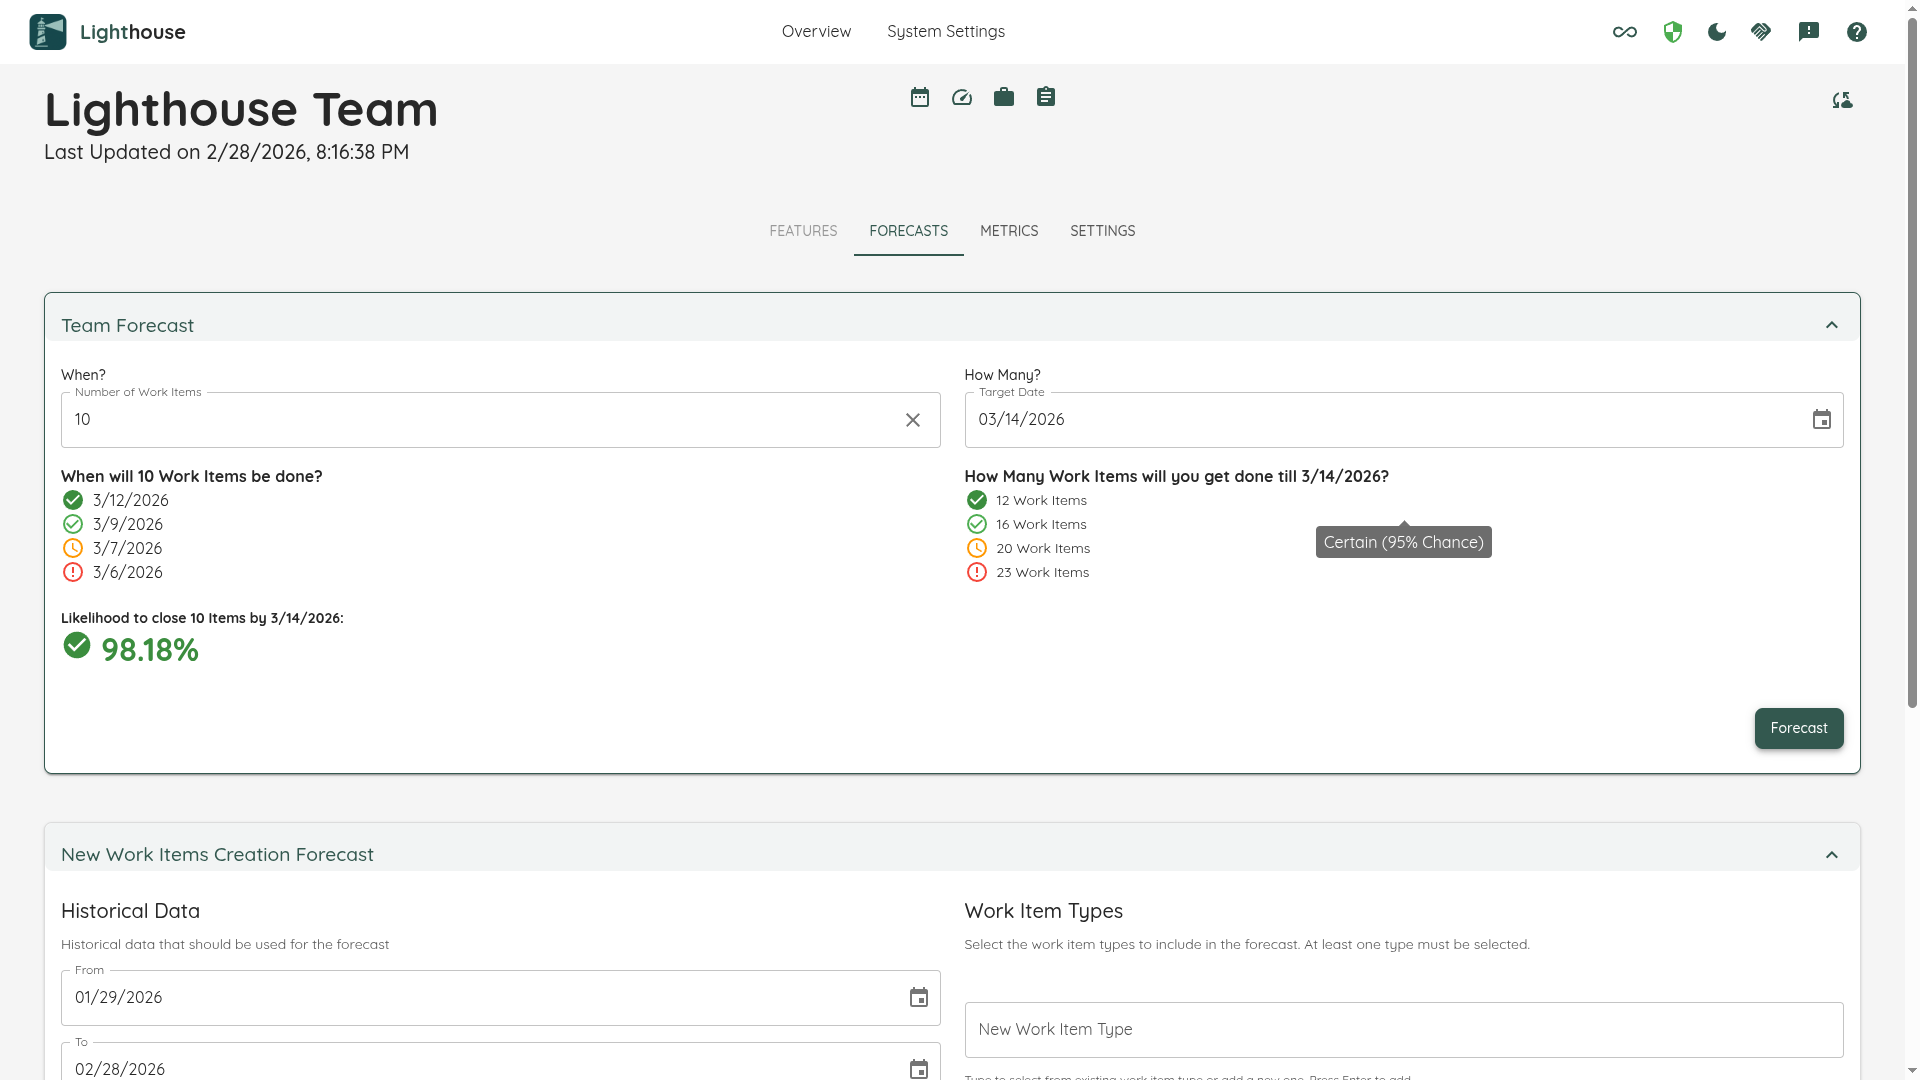
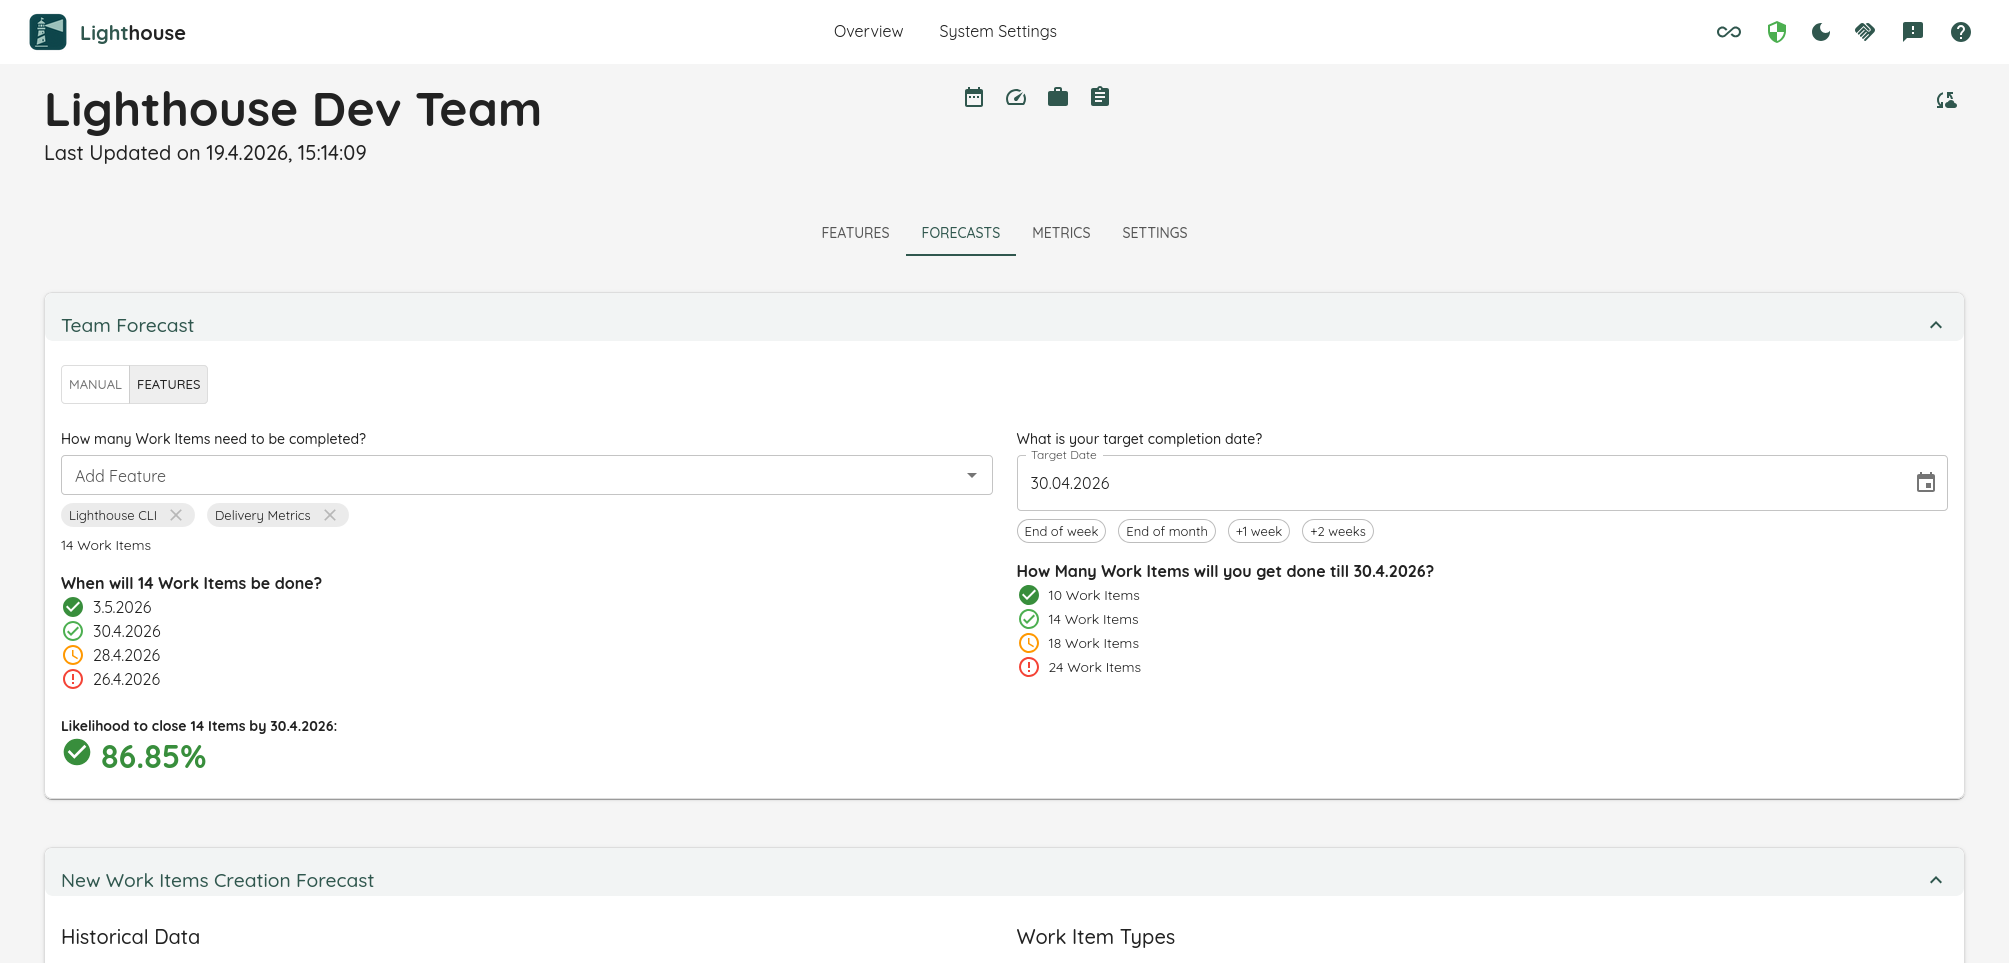
feat: update metrics categories and add arrivals widget to enhance dashboard insights

diff --git a/Lighthouse.Frontend/src/pages/Common/MetricsView/categoryMetadata.ts b/Lighthouse.Frontend/src/pages/Common/MetricsView/categoryMetadata.ts
@@ -73,10 +73,10 @@ const categoryWidgets: Record<CategoryKey, readonly WidgetPlacement[]> = {
 		{ widgetKey: "stacked", size: "large" },
 		{ widgetKey: "wipOverTime", size: "large" },
 		{ widgetKey: "totalWorkItemAgeOverTime", size: "large" },
+		{ widgetKey: "arrivals", size: "large" },
 	],
 	predictability: [
 		{ widgetKey: "predictabilityScoreDetails", size: "large" },
-		{ widgetKey: "arrivals", size: "large" },
 		{ widgetKey: "throughputPbc", size: "large" },
 		{ widgetKey: "arrivalsPbc", size: "large" },
 		{ widgetKey: "wipPbc", size: "large" },

diff --git a/Lighthouse.Frontend/src/pages/Common/MetricsView/categoryMetadata.test.ts b/Lighthouse.Frontend/src/pages/Common/MetricsView/categoryMetadata.test.ts
@@ -208,6 +208,7 @@ describe("categoryMetadata", () => {
 				"stacked",
 				"wipOverTime",
 				"totalWorkItemAgeOverTime",
+				"arrivals",
 			]);
 		});
 
@@ -215,7 +216,6 @@ describe("categoryMetadata", () => {
 			const widgets = getWidgetsForCategory("predictability", "team");
 			expect(widgets.map((w) => w.widgetKey)).toEqual([
 				"predictabilityScoreDetails",
-				"arrivals",
 				"throughputPbc",
 				"arrivalsPbc",
 				"wipPbc",

diff --git a/Lighthouse.EndToEndTests/tests/specs/screenshots/Screenshots.spec.ts b/Lighthouse.EndToEndTests/tests/specs/screenshots/Screenshots.spec.ts
@@ -356,8 +356,8 @@ testWithData(
 
 		const metricCategoriesMap = new Map<MetricsCategories, number>([
 			[MetricsCategories.FlowOverview, 9],
-			[MetricsCategories.FlowMetrics, 6],
-			[MetricsCategories.Predictability, 7],
+			[MetricsCategories.FlowMetrics, 7],
+			[MetricsCategories.Predictability, 6],
 			[MetricsCategories.PortfolioAndFeatures, 2],
 		]);
 

diff --git a/docs/releasenotes/releasenotes.md b/docs/releasenotes/releasenotes.md
@@ -4,24 +4,13 @@ layout: home
 nav_order: 95
 ---
 
-# vNext
+# Lighthouse v26.4.19.8
 
-## Flow Overview Trend Indicators
+## Metrics Improvements
+We've worked on the feedback we got from the UX overhaul, and refined our Metrics further. Following changes were made in this release.
 
-All Flow Overview info widgets now display trend indicators comparing the current date range to a prior period:
-
-- **WIP Overview**, **Features Worked On** (Teams), and **Total Work Item Age** compare snapshot values at the start and end of the selected range.
-- **Predictability Score**, **Cycle Time Percentiles**, **Total Throughput**, **Total Arrivals**, and **Feature Size Percentiles** compare the current period against an equal-length window immediately before the start date.
-- Percentile tooltip rows now use a `previous → **current**` format with the current-period value emphasized.
-
-## Date-Aware Snapshot Widgets
-
-WIP Overview, Features Worked On, and Total Work Item Age now resolve their values as of the selected end date rather than always returning the current state. Changing the date range will change the displayed counts to reflect the system at that point in time.
-
-## Simplified Dashboard Categories
-
-The dashboard category model has been consolidated from six categories to four:
-
+### Simplified Metrics Categories
+The available categories in the Metrics section have been consolidated from six categories to four:
 | Before | After |
 |---|---|
 | Flow Overview | **Flow Overview** (unchanged) |
@@ -31,28 +20,80 @@ The dashboard category model has been consolidated from six categories to four:
 | Predictability | **Predictability** (unchanged) |
 | Portfolio & Features | **Portfolio & Features** (unchanged) |
 
-Previously stored category selections for the retired keys (`cycle-time`, `throughput`, `wip-aging`) are automatically migrated to **Flow Metrics**.
+Each chart is now appearing exactly in one category. While the *Flow Overview* will show you the status at a quick glance, the *Flow Metrics* will allow you to dive deeper and get into details.
 
-## Redesigned Team Forecast
-
-The Team Forecast has been redesigned to make forecasting faster and more intuitive:
-
-- **Auto-run forecast**: The forecast now runs automatically as you type — no more "Forecast" button. Results update 300ms after your last change.
-- **Smart quick-pick chips**: Select your remaining work directly from contextual suggestions. WIP and Backlog counts are pulled automatically from your team's current state so you can pick a sensible starting point with one click.
-- **Date shortcuts**: Choose common target dates instantly — *End of week*, *End of month*, *+1 week*, or *+2 weeks* — without opening the date picker.
-- **Zero-value guard**: If remaining items is set to 0, the forecast pauses and shows an inline hint rather than running a nonsensical forecast.
-- **Stale-response protection**: Rapid changes no longer produce out-of-order results. Only the response to the most recent request updates the display.
-
-## Arrivals Metrics
-
+### Arrivals Run Chart and Process Behaviour Chart
 The Metrics Dashboard now includes **Arrivals** as a first-class metric for both Teams and Portfolios:
 
 - **Arrivals Run Chart**: Shows the daily count of work items started over the selected date range. Complements the Throughput Run Chart by visualizing the intake side of flow.
 - **Arrivals Process Behaviour Chart**: Applies XmR-chart analysis to the arrival rate, highlighting special-cause variation in how many items enter the system per day.
 
-Both widgets appear in the **Throughput** category. The Arrivals PBC also appears in the **Predictability** category alongside the other PBC charts.
+The Run Chart is part of the Flow Metrics category, while the PBC can be found in the **Predictability** category alongside the other PBCs.
 
 The Arrivals Run Chart includes a two-factor status indicator that checks both arrivals-versus-departures balance and whether arrivals are continuous or batched.
+
+![Arrivals Run Chart](https://raw.githubusercontent.com/LetPeopleWork/Lighthouse/refs/heads/main/docs/assets/features/metrics/arrivals.png)
+
+### Total Throughput and Total Arrivals Info Widgets
+To give a decent overview, both the Throughput as well as your arrivles (items you've started) are now visualized in an individual Metric on the *Flow Overview* page.
+
+![Total Throughput](https://raw.githubusercontent.com/LetPeopleWork/Lighthouse/refs/heads/main/docs/assets/features/metrics/totalThroughput.png)
+
+### Removal of Started vs. Closed Widget
+As we have an individual widget for Total Throughput and Total Arrivals, this widget was obsolete and was removed.
+
+### Feature Size Percentiles
+For Portfolios, you can now also see in the *Flow Overview* page a summary of your Feature Sizes (similar to the Cycle Time Scatterplot). This allows you to see how big your features are at a quick glance.
+
+![Feature Size Percentiles](https://raw.githubusercontent.com/LetPeopleWork/Lighthouse/refs/heads/main/docs/assets/features/metrics/featureSizePercentiles.png)
+
+### Trend Indicators
+All Flow Overview info widgets now display trend indicators comparing the current date range to a prior period:
+
+- **WIP Overview**, **Features Worked On** (Teams), and **Total Work Item Age** compare snapshot values at the start and end of the selected range.
+- **Predictability Score**, **Cycle Time Percentiles**, **Total Throughput**, **Total Arrivals**, and **Feature Size Percentiles** compare the current period against an equal-length window immediately before the start date.
+- Percentile tooltip rows now use a `previous → **current**` format with the current-period value emphasized.
+
+The trends are neutral, and simply indicate whether you things are increasing or decreasing compared to a previous period.
+
+### Time Filter for Widgets
+While previously the WIP Overview, Features Worked On, and Total Work Item Age were simply ignoring any time selected, and showed the current state, they will now resolve their values as of the selected end date. Changing the date range will change the displayed counts to reflect the system at that point in time.
+
+**Note:** The Blocked Items widget does *not* support this (yet)
+
+### Other Metrics Improvements
+Apart from the above, the following things related to metrics were improved:
+- The Predictability Score was adjusted to give more accurate results. Previously, with an increase of the input, the score had a tendency to be too optimistic
+- Removed the Info icon when a baseline was missing in the PBCs - it will be reflected in the RAG status instead
+- The Control Limits as well as the Average Lines for PBCs are now rounded to not have any decimals
+- Total Work Item Age over Time RAG status was showing the wrong values
+
+## Redesigned Team Forecast
+The Team Forecast has been redesigned to make forecasting faster and more intuitive:
+
+- **Auto-run forecast**: The forecast now runs automatically as you type — no more "Forecast" button.
+- **Smart quick-pick chips**: Select your remaining work directly from contextual suggestions. WIP and Backlog counts are pulled automatically from your team's current state so you can pick a sensible starting point with one click.
+- **Feature Selection**: Switch to *Feature Mode* and select Features from your backlog. It will automatically use the remaining work of all selected Features to run the forecast.
+- **Date shortcuts**: Choose common target dates instantly — *End of week*, *End of month*, *+1 week*, or *+2 weeks* — without opening the date picker.
+
+![Feature Mode](https://raw.githubusercontent.com/LetPeopleWork/Lighthouse/refs/heads/main/docs/assets/features/teamdetail.png)
+
+## Bug Fixes and Other Improvements
+- **Product Board**: Various references to the newly introduced [Product Board](https://ideas.letpeople.work) were added
+- **Load all Azure DevOps Boards**: Previously only the first 100 boards on any Azure DevOps Projects were shown. Now all boards are loaded.
+- **Show Work Items for Features in Delivery**: You can now, similar to the Team and Portfolio Feature view, see what Work Items belong to a feature when expanding the Delivery View
+- **Update Manual Deliveries**: Fixed issue that prevented any update to a delivery that used manual feature selection mode
+
+## Contributions ❤
+
+Special thanks to everyone who contributed feedback for this release:
+- [Myriam Greger](https://www.linkedin.com/in/myriam-greger/)
+- [Nick Brown](https://www.linkedin.com/in/nicolasjmbrown/)
+- [Hendra Gunawan](https://www.linkedin.com/in/hendragunawan823/) 
+- [Sascha Lucius](https://www.linkedin.com/in/sascha-lucius/)
+- [Chandan Bala](https://www.linkedin.com/in/chandan-bala-7251b9242/)
+
+[**Full Changelog**](https://github.com/LetPeopleWork/Lighthouse/compare/v26.4.7.1...v26.4.19.8)
 
 # Lighthouse v26.4.7.1
 

diff --git a/docs/contributions/contributions.md b/docs/contributions/contributions.md
@@ -79,6 +79,7 @@ We’d like to recognize the efforts of all individual contributors. Thank you f
 - [**Ben Richards**](https://www.linkedin.com/in/iambenrichards/)  
 - [**Manuel Opitz**](https://www.linkedin.com/in/manuel-opitz-3812351a9/)  
 - [**Liz Rettig**](https://www.linkedin.com/in/lizrettig-agilecoach/)  
+- [**Sascha Lucius**](https://www.linkedin.com/in/sascha-lucius/)  
 
 
 ---
